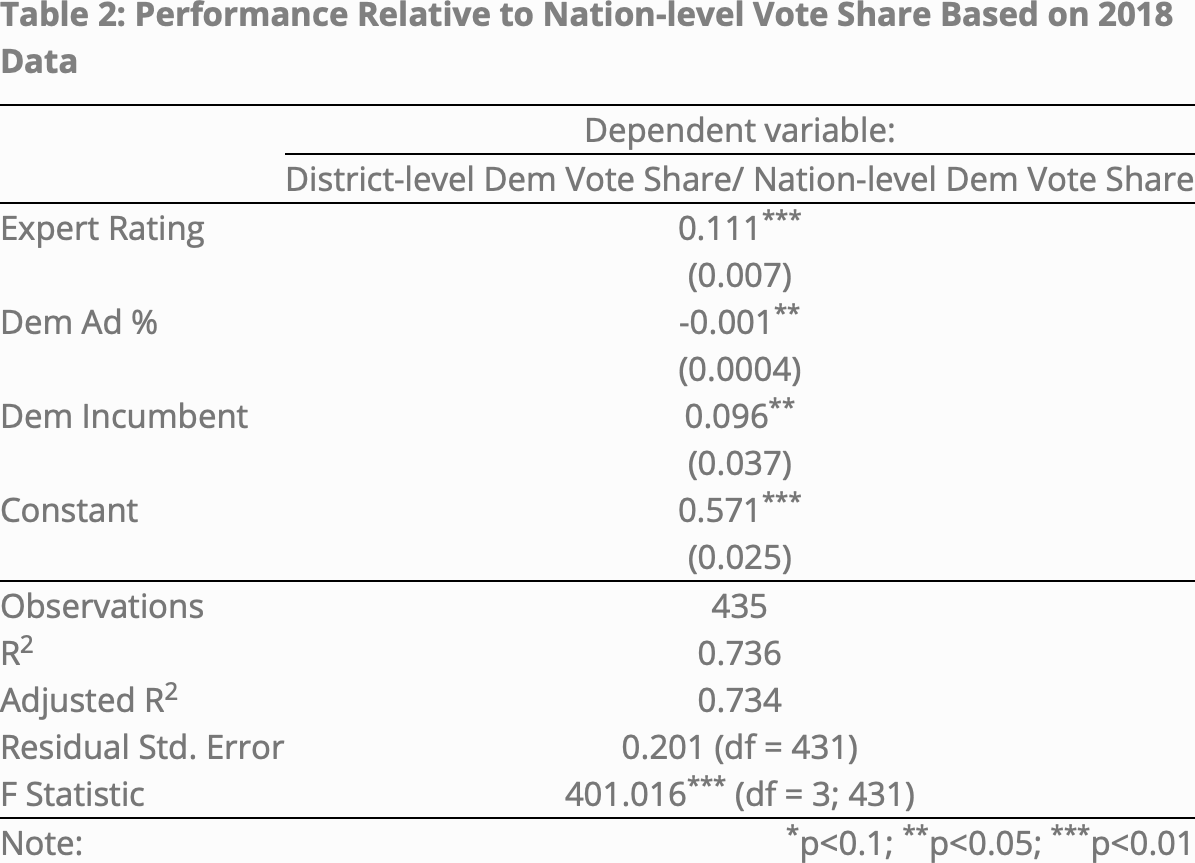
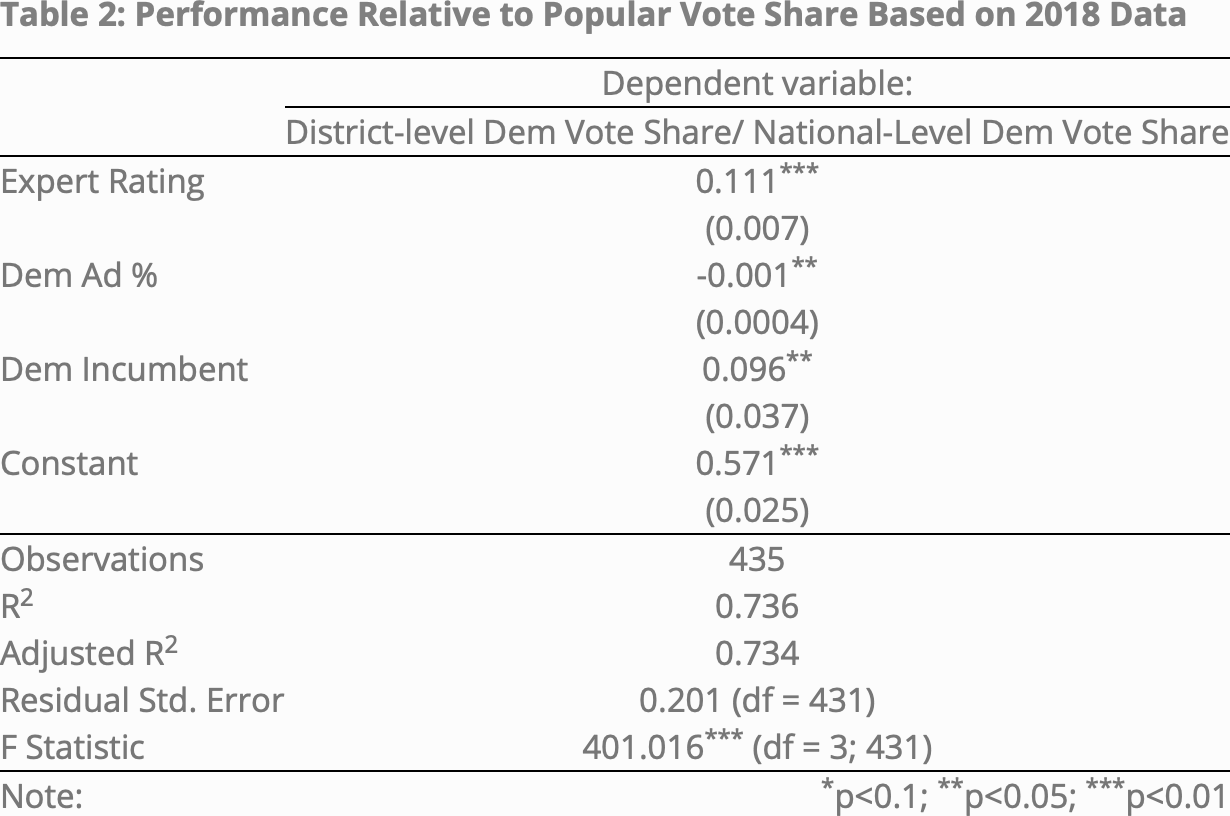
Blog 05

diff --git a/content/posts/05-air-war/index.html b/content/posts/05-air-war/index.html
@@ -1,56 +1,57 @@
 ---
 title: "05-The 'Air War'"
 author: "Kento Yamada"
-date: '2022-10-09'
+date: '2022-10-10'
 output: html_document
 ---
 
 
 
-<div id="two-step-prediction" class="section level1">
-<h1>Two-step Prediction</h1>
+<p>In addition to incumbency, the strength of candidates’ campaigns has an impact on electoral outcomes. In this blog post, I will predict the outcomes at the district level, taking into account three district-level variables: expert ratings, incumbency, and the volume of ads.</p>
+<div id="incorporating-district-level-information" class="section level2">
+<h2>Incorporating District-Level Information</h2>
+<div id="two-step-forecasting-model" class="section level3">
+<h3>Two-Step Forecasting Model</h3>
+<p>Similar to Bafumi et al. (2018), my model is made up of two steps. First, I predict the Democratic popular vote share and run 3,000 simulations to obtain a set of possible outcomes at the national level. Second, I build a model to see how the national-level vote share translates into district-level vote share. I calculate how each of the 3,000 simulated popular vote share translates into district-level vote share and predict the number of seats that the Democrats will win.</p>
+<p>I adopt this method instead of building a single model that incorporates district-level variables because it allows us to take into account redistricting. Relying on historical data at the district level can be problematic in districts where the dynamics have shifted greatly due to redistricting. For example, in California’s 22nd District, which is the district I have been monitoring throughout the semester, used to be a Republican-leaning district but became Democratic-leaning after redistricting. In such districts, relying on historical data to build a district-level forecast model is not realistic. My method addresses that issue by predicting the national-level vote share first and translating that into district-level vote shares. I use data from the 2018 House elections to see how the national-level vote share generally tends to translate into district-level vote share.</p>
 </div>
-<div id="nation-level-prediction" class="section level1">
-<h1>Nation-level Prediction</h1>
-<p><img src="table1.png" /></p>
 </div>
-<div id="district-level-prediction-incorporating-ads-data" class="section level1">
-<h1>District-level Prediction Incorporating Ads Data</h1>
-<pre class="r"><code>df_2018 &lt;- vote_share_2018_df %&gt;% 
-  full_join(ratings_2018_df, by = &quot;District&quot;) %&gt;%
-  full_join(ads_df, by = &quot;District&quot;) %&gt;%
-  full_join(incumb_2018_df, by = &quot;District&quot;)
-
-# If there were no ads in a particular district, assume that the Democratic share of ads was 50%
-# (i.e. assume that neither Democrats nor Republicans had an advantage in that district)
-df_2018$d_ad_rate[is.na(df_2018$d_ad_rate)] &lt;- 50
-
-# Democratic candidate&#39;s performance in the district relative to Democrat&#39;s nation-wide vote share
-df_2018 &lt;- df_2018 %&gt;%
-  mutate(pct_D_rel = pct_D/dem_pop_2018)</code></pre>
-<p><img src="table2.png" /></p>
+<div id="national-level-prediction" class="section level2">
+<h2>National-level Prediction</h2>
+<p>My forecast model for the popular vote share is similar to the models I built in Blog Post 03. As seen in Table 1, I predict the president’s party’s two-party popular vote share based on the GDP growth rate between the 6th quarter and 7th quarter, whether the election is a midterm election, and the president’s party’s performance in generic ballot polls. The generic ballot polls are weighted based on recency.</p>
+<p><img src="table1.png" style="width:50.0%" /></p>
+<p>Using this model, I run simulations to predict the Democratic popular vote share in 2022, thereby obtaining a set of 3,000 potential outcomes at the national level. The simulations are based on the assumption that the errors of the model are normally distributed, with the mean being 0 and the standard deviation being equal to the residual standard error of the model. As seen in Figure 1, the most likely outcome in 2022 is for the Democrats to win 47 to 48% of the two-party popular vote.</p>
+<p><img src="{{< blogdown/postref >}}index_files/figure-html/plot%203000%20simulations-1.png" width="672" /></p>
+</div>
+<div id="district-level-prediction" class="section level2">
+<h2>District-Level Prediction</h2>
+<div id="incorporating-ads-data" class="section level3">
+<h3>Incorporating Ads Data</h3>
+<p>Next, relying on data from the 2018 elections, I build a model to see how the popular vote share translates into district-level vote shares. The dependent variable is district-level Democratic vote share relative to the Democratic popular vote share. (For example, if a candidate won 60% of the two-party vote in a certain district, we can say that they won 1.10 times the Democratic popular two-party vote share, which was 54.35% in 2018). The independent variables are:</p>
+<ul>
+<li>Expert rating: the average of the ratings from the Cook Political Report, Inside Elections, and Sabato’s Crystal Ball. The ratings were converted into a 7-point scale, with 7 being “Solid/Safe Democrat,” 4 being “Toss-up”, and 1 being “Solid/Safe Republican.” The data was retrieved from Ballotpedia (2018).</li>
+<li>Ads (Dem %): Percentage of TV ads aired in the district by the Democratic candidate. In districts where there were no TV ads, the value is held at 50%, assuming that neither campaign had an advantage in that district.</li>
+<li>Incumbency: 1 if the Democratic candidate was an incumbent.</li>
+</ul>
+<p><img src="table2.png" style="width:80.0%" /></p>
+<p>Note that ads seem to have a weak and significant effect. While this result may be counterintuitive given the evidence that voters are actually persuaded by TV ads (Huber &amp; Arceneaux, 2007), it makes sense when considering the fact that both parties strategically air ads in competitive districts. Campaigns may end up losing races despite investing in TV ads because the race was competitive.</p>
+<p>In Figure 2, I plotted the predicted Democratic vote share based on this model against the actual vote share in 2018. The predicted vote shares exceed 100 in some districts, which shows the limitation of this model. However, the model correctly predicted the outcomes of 423/435 races, which suggests that the model may be good enough if we are only interested in who wins the race.</p>
 <p><img src="{{< blogdown/postref >}}index_files/figure-html/2018%20true%20vs%20actual-1.png" width="672" /></p>
-<div id="predictions" class="section level2">
-<h2>Predictions</h2>
-<pre class="r"><code>ggplot(mapping = aes(d_seats_predict)) +
-  geom_histogram(binwidth = 5, boundary = 200) +
-  geom_vline(aes(xintercept = 218), color = &quot;purple&quot;) +
-  labs(x = &quot;Number of Democratic Seats&quot;, y = NULL,
-       title = &quot;Predicted Number of Democratic Seats&quot;) +
-  theme_bw()</code></pre>
-<p><img src="{{< blogdown/postref >}}index_files/figure-html/unnamed-chunk-1-1.png" width="672" /></p>
-<p>Data on 2022 incumbency was taken from <a href="https://www.cookpolitical.com/cook-pvi/2022-partisan-voting-index/district-map-and-list" class="uri">https://www.cookpolitical.com/cook-pvi/2022-partisan-voting-index/district-map-and-list</a>
-<a href="https://ballotpedia.org/United_States_Congress_elections,_2022" class="uri">https://ballotpedia.org/United_States_Congress_elections,_2022</a></p>
+</div>
+</div>
+<div id="predicted-number-of-democratic-seats" class="section level2">
+<h2>Predicted Number of Democratic Seats</h2>
+<p>Lastly, I use this model to predict the number of seats that the Democrats will win in 2022. Using the model shown in Table 2, I translate each of the 3,000 potential Democratic vote shares into district-level vote share based on the latest data. The data on expert ratings was retrieved from Ballotpedia (2022), and the data on incumbency was retrieved from the Cook Political Report (2022) and Ballotpedia (2022). The data on the volume of TV ads was retrieved from the data that was compiled by Kantar/CMAG and analyzed by the Wesleyan Media Project (2022). This dataset shows the volume of TV ads aired between September 19 and October 2 in 53 House districts. Note that there will likely be more ads between now and voting day, and one party might gain an advantage over the other closer to voting day. We can expect that campaigns will strategically air more ads closer to voting day since the effect of TV ads are short-lived (Gerber et al., 2011)</p>
+<p>As seen in Figure 3, the median of the predicted number of Democratic seats is 206, and Democrats are highly unlikely to win the majority. The predicted Democratic seat share (47.4%) ended up being close to the predicted Democratic popular vote share (47.9%).</p>
+<p><img src="{{< blogdown/postref >}}index_files/figure-html/plot%20predicted%20number%20of%20seats-1.png" width="672" /></p>
 <div id="references" class="section level3">
 <h3>References</h3>
-<p>Kantar/CMAG with analysis by the Wesleyan Media Project.
-<a href="https://mediaproject.wesleyan.edu/releases-100622/" class="uri">https://mediaproject.wesleyan.edu/releases-100622/</a></p>
-<p><a href="https://ballotpedia.org/United_States_House_of_Representatives_elections,_2018" class="uri">https://ballotpedia.org/United_States_House_of_Representatives_elections,_2018</a>
-<a href="https://ballotpedia.org/United_States_House_of_Representatives_elections,_2020" class="uri">https://ballotpedia.org/United_States_House_of_Representatives_elections,_2020</a>
-<a href="https://ballotpedia.org/United_States_Congress_elections,_2022" class="uri">https://ballotpedia.org/United_States_Congress_elections,_2022</a></p>
-<p><a href="https://www.cookpolitical.com/cook-pvi/2022-partisan-voting-index/district-map-and-list" class="uri">https://www.cookpolitical.com/cook-pvi/2022-partisan-voting-index/district-map-and-list</a></p>
-<p><a href="https://www.cookpolitical.com/pvi-map-and-district-list" class="uri">https://www.cookpolitical.com/pvi-map-and-district-list</a>
-<a href="https://ballotpedia.org/United_States_Congress_elections,_2022" class="uri">https://ballotpedia.org/United_States_Congress_elections,_2022</a></p>
-</div>
+<p>Bafumi, J., Erikson, R., &amp; Wlezien, C. (2018). Forecasting the 2018 Midterm Election using National Polls and District Information. <em>PS: Political Science &amp; Politics, 51</em>(S1), 7-11. <a href="doi:10.1017/S1049096518001579" class="uri">doi:10.1017/S1049096518001579</a></p>
+<p>Ballotpedia. (2018). United States House of Representatives elections, 2018. <a href="https://ballotpedia.org/United_States_House_of_Representatives_elections,_2018" class="uri">https://ballotpedia.org/United_States_House_of_Representatives_elections,_2018</a></p>
+<p>Ballotpedia. (2022). United States Congress elections, 2022. <a href="https://ballotpedia.org/United_States_Congress_elections,_2022" class="uri">https://ballotpedia.org/United_States_Congress_elections,_2022</a></p>
+<p>Cook Political Report. (2022). PVI Map and District List. <a href="https://www.cookpolitical.com/cook-pvi/2022-partisan-voting-index/district-map-and-list" class="uri">https://www.cookpolitical.com/cook-pvi/2022-partisan-voting-index/district-map-and-list</a></p>
+<p>Gerber, A.S., Gimpel, J. G., Green, D. P., &amp; Shaw, D. R. (2011). How Large and Long-lasting Are the Persuasive Effects of Televised Campaign Ads? Results from a Randomized Field Experiment. <em>American Political Science Review, 105</em>(1), 135–150. <a href="https://doi.org/10.1017/S000305541000047X" class="uri">https://doi.org/10.1017/S000305541000047X</a></p>
+<p>Huber, G.A. &amp; Arceneaux, K. (2007). Identifying the Persuasive Effects of Presidential Advertising. <em>American Journal of Political Science, 51</em>(4), 957–977. <a href="https://doi.org/10.1111/j.1540-5907.2007.00291.x" class="uri">https://doi.org/10.1111/j.1540-5907.2007.00291.x</a></p>
+<p>Wesleyan Media Project. (2022, October 6). Democrats Out-Pacing GOP in Senate Races. <a href="https://mediaproject.wesleyan.edu/releases-100622/" class="uri">https://mediaproject.wesleyan.edu/releases-100622/</a></p>
 </div>
 </div>
